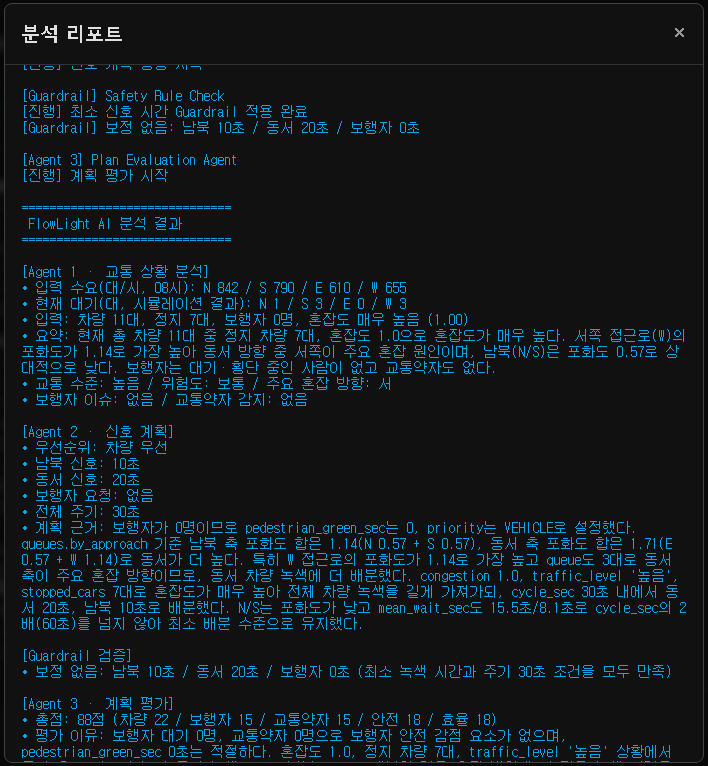
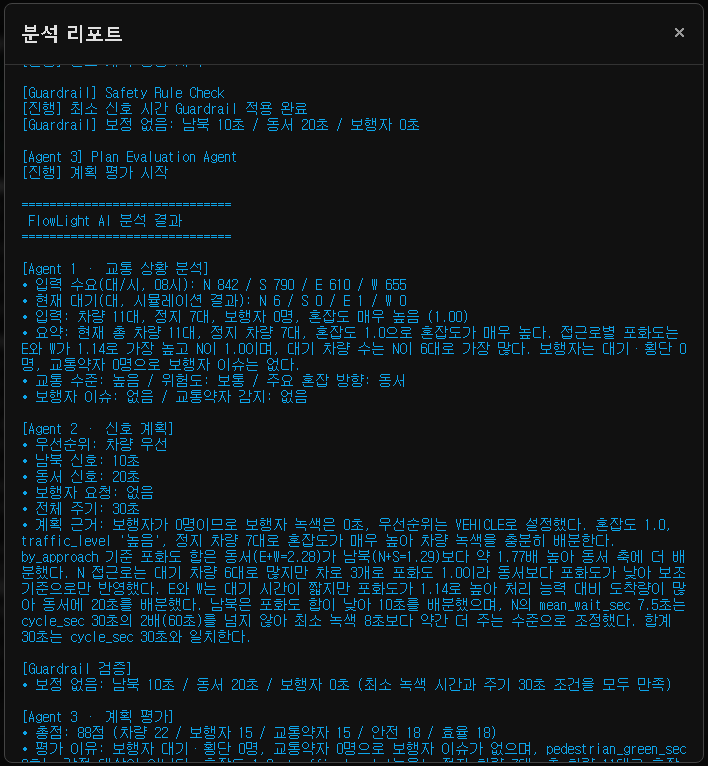
다차로 인도 모서리와 A/B 검증 수정, 캡처 갱신
수정
- 인도 그리기: 둥근 선 끝 대신 직각으로 자르고, 교차점마다 가장 좁은 인도 폭의 원으로 모서리를 메운다.
  실데이터 모드의 3차로 남북 도로 끝이 격자 테두리 밖으로 반원처럼 튀어나오던 문제.
- A/B 검증: Webster 권장값을 적용할 때 그 교차로의 감응 모드를 끈다.
  AI 적용 뒤에는 감응이 매 주기 AI 계획으로 되돌려 A 와 B 결과가 똑같이 나왔다 (수정 후 309 대 270대).
- tests/test_render_and_ab.py (241 passed, 1 skipped).

캡처 (새 도로 모양)
- 전후 비교 GIF: 저장한 계획으로 같은 시드 재녹화, API 호출 없음 (통과 138/156대로 이전과 동일).
- 리포트·진행 패널·적용 화면: 실제 호출 1회, 시드 고정. 계획 10/20/0, 88점 자동 적용,
  15초 평균 처리량 37 → 45대/분, 정지 7 → 11대, 정체 지수 1.00 → 0.99.
- Live Demo GIF: 실제 호출 1회. 프로파일·수요 패널 캡처 갱신.
- README ko/en: 검증 기록, 테스트 수 갱신.

diff --git a/app/index.html b/app/index.html
@@ -1921,6 +1921,10 @@ Analyzer.prototype.applyRecommendations = function() {
             if (k === 'cycle') continue;
             ng[k] = rec.recommended[k];
         }
+        // Webster 권장값은 고정 시간표다. AI 적용 뒤의 감응 모드가 남아 있으면 매 주기 AI 계획으로 되돌려
+        // A/B 검증의 B 단계가 A 와 똑같아지므로, 이 교차로의 감응을 끈다.
+        light.actuated = null;
+        light.leadingLeft = {};
         // 위상 위치 보존 적용 — phaseIdx/t를 리셋하면 적응형 모드에서
         // 첫 위상만 반복 재생되어 신호 운영이 파괴된다.
         light.applyGreens(ng, rec.recommended.cycle);
@@ -1960,13 +1964,27 @@ Renderer.prototype.render = function(network, jc, cam) {
     }
 
     // 인도: 도로 가장자리에 사람만 통행 가능한 영역(회색 블록)
+    // 끝을 직각으로 자르고, 모서리는 교차점마다 원으로 둥글게 메운다. 원 반지름은 그 점에 닿는 인도 중 가장 좁은 것의 절반이라,
+    // 차로 수가 다른 도로(예: 남북 3차로)가 테두리와 만나도 넓은 도로의 둥근 끝이 격자 밖으로 튀어나오지 않는다.
+    var walkR = {};
+    ctx.lineCap = 'butt';
+    ctx.strokeStyle = '#6b7280'; // 밝은 회색
     for (var i = 0; i < network.edges.length; i++) {
         var e = network.edges[i];
         if (e.isArc || e.from.id > e.to.id) continue;
-        ctx.lineWidth = roadWidthOf(e) + 16; // 도로 + 양옆 8픽셀 인도
-        ctx.lineCap = 'round'; // 교차로에서 둥글게 이어짐
-        ctx.strokeStyle = '#6b7280'; // 밝은 회색
+        var ww = roadWidthOf(e) + 16; // 도로 + 양옆 8픽셀 인도
+        ctx.lineWidth = ww;
         ctx.beginPath(); ctx.moveTo(e.from.x,e.from.y); ctx.lineTo(e.to.x,e.to.y); ctx.stroke();
+        var ends = [e.from, e.to];
+        for (var k = 0; k < 2; k++) {
+            var nd0 = ends[k], prev = walkR[nd0.id];
+            walkR[nd0.id] = { nd: nd0, r: prev ? Math.min(prev.r, ww / 2) : ww / 2 };
+        }
+    }
+    ctx.fillStyle = '#6b7280';
+    for (var nid in walkR) {
+        var wr = walkR[nid];
+        ctx.beginPath(); ctx.arc(wr.nd.x, wr.nd.y, wr.r, 0, Math.PI * 2); ctx.fill();
     }
 
     // 도로: 인도 위에 차량이 다니는 슬래브 (폭 = 양방향 차로 폭의 합, 1차로면 예전처럼 약 25)

diff --git a/tests/test_render_and_ab.py b/tests/test_render_and_ab.py
@@ -1,0 +1,25 @@
+"""
+화면 렌더링과 A/B 검증의 회귀 검사 (브라우저 없이 index.html 을 문자열로 확인).
+
+- 차로 수가 다른 도로가 테두리와 만나도 인도의 둥근 끝이 격자 밖으로 튀어나오지 않아야 한다.
+- AI 적용 뒤 A/B 검증을 돌려도 B 단계의 Webster 권장값이 감응 모드에 덮어쓰이지 않아야 한다.
+"""
+import re
+from pathlib import Path
+
+HTML = (Path(__file__).resolve().parent.parent / "app" / "index.html").read_text(encoding="utf-8")
+
+
+def test_sidewalks_use_butt_caps_and_node_circles_sized_by_the_narrowest_road():
+    block = HTML[HTML.index("// 인도: 도로 가장자리에 사람만 통행 가능한 영역"):HTML.index("// 도로: 인도 위에 차량이 다니는 슬래브")]
+    assert "ctx.lineCap = 'butt';" in block
+    assert "lineCap = 'round'" not in block
+    assert "Math.min(prev.r, ww / 2)" in block
+    assert "ctx.arc(wr.nd.x, wr.nd.y, wr.r, 0, Math.PI * 2)" in block
+
+
+def test_webster_recommendations_switch_off_actuation():
+    start = HTML.index("Analyzer.prototype.applyRecommendations = function()")
+    body = HTML[start:HTML.index("// ===== Renderer =====", start)]
+    assert re.search(r"light\.actuated = null;\s*light\.leadingLeft = \{\};", body)
+    assert body.index("light.actuated = null;") < body.index("light.applyGreens(ng, rec.recommended.cycle);")

diff --git a/README.en.md b/README.en.md
@@ -258,7 +258,7 @@ Measured the same way on the previous version: waiting vehicles 18 → 13 (-27.8
 | Run from the profile-mode UI (9 cars, 2 queued on N, saturation 1.2) | main direction "N", plan 12/8/0, score 82, operator approval → applied manually, congestion index 0.61 → 0.35 (measured with the earlier two-phase apply) |
 | Manual mode 4x4, one lane, 49 cars, 33 stopped (the split state of the earlier before/after comparison) | main direction "north-south", plan 12/8/0, no Guardrail correction, score 88, auto apply → applied as a real signal system, throughput 121 → 131 after 60 s |
 | Manual mode 4x4, cycle 30 s, 18 cars, 2 pedestrians at the crosswalk including an elderly person | Agent 1 flags a vulnerable user, plan 12/8/10 ("one vulnerable pedestrian, so 10 s for crossing speed"), no Guardrail correction, score 82, operator approval → 10 s pedestrian-only phase after applying |
-| Run from the profile-mode UI, multiplier ×1, 11 cars, 7 stopped, W saturation 1.14 (the current report and applied screenshots, 09-17) | main direction "W", plan 10/20/0 (reason: saturation sum 1.14 north-south vs 1.71 east-west), no Guardrail correction, score 88, auto apply → 15 s mean throughput 31 → 48 veh/min, congestion index 1.00 → 0.88, stopped 7 → 7 |
+| Run from the profile-mode UI, multiplier ×1, seed 20260702, 11 cars, 7 stopped (the current report and applied screenshots, 09-17) | main direction "east-west" (E and W saturation 1.14, 6 queued on N), plan 10/20/0 (reason: saturation sum 2.28 east-west vs 1.29 north-south, the N queue treated as secondary), no Guardrail correction, score 88, auto apply → 15 s mean throughput 37 → 45 veh/min, congestion index 1.00 → 0.99, stopped 7 → 11 (up) |
 | Same setup, seed 20260702, the call made for the before/after GIFs (09-17) | main direction "east-west", plan 10/20/0, no Guardrail correction, score 88, auto apply → against a fixed signal with an 8 s pedestrian phase, 90 s throughput 138 → 156, stopped 25.2 → 19.1 |
 | Profile mode, multiplier ×3, "re-analyse when the hour changes" on, 08:00 → 03:00 → 08:00 (09-17) | two automatic analyses 20 s after each change, both 14/16/0 and auto apply, no report window or alert. For 20 s after switching to 03:00 the road still held cars from 08:00, so the plan came out the same. With the backend unreachable the run was shown as skipped, with no replay |
 | Profile mode 08:00, multiplier ×3, no pedestrians, ten seeds (09-17) | pedestrian 0 s and auto apply in all ten calls, plans from 8/22 to 18/12 depending on the seed → against a fixed signal with an 8 s pedestrian phase, 90 s throughput +14.7 ± 7.2, stopped −4.2 ± 2.2 (section "An intersection with no pedestrians" above) |
@@ -306,7 +306,7 @@ FlowLight-AI-Traffic-Signal
 │   ├── README.md                   # data source, column mapping, synthetic sample formula, replacement steps
 │   ├── sample_seoul_traffic_history.csv
 │   └── sample_seoul_traffic_history.meta.json
-├── tests                           # 240 tests (239 mocked + 1 live, live is opt-in)
+├── tests                           # 242 tests (241 mocked + 1 live, live is opt-in)
 ├── docs
 │   ├── screens/                    # UI screens (guide, main, profile mode, progress, report, applied, pedestrian phase, replay, advanced)
 │   ├── flowlight_banner.png, flowlight_live_demo.gif
@@ -435,7 +435,7 @@ This is what the frontend sends. The legacy fields alone are enough. `demand` an
 python -m pytest -q
 ```
 
-- The default run never calls the Solar API (the client is mocked). Currently 239 pass and 1 is skipped as live.
+- The default run never calls the Solar API (the client is mocked). Currently 241 pass and 1 is skipped as live.
 - The live API test is opt-in.
 
 ```bash
@@ -453,6 +453,7 @@ RUN_LIVE_TESTS=1 python -m pytest tests/test_agent_stream.py -v
 | `test_traffic_profile_api.py` | Profile endpoint |
 | `test_scenario_extension.py` | Extended input passing through the backend |
 | `test_replay_data.py` | Recorded replay: SSE order, plan and decision format, page wiring |
+| `test_render_and_ab.py` | Sidewalk corners where roads with different lane counts meet; Webster values in the A/B check are not overwritten by actuation |
 | `test_hourly_reanalysis.py` | Hourly re-analysis: scheduling, no overlap, quiet automatic runs |
 
 ---
